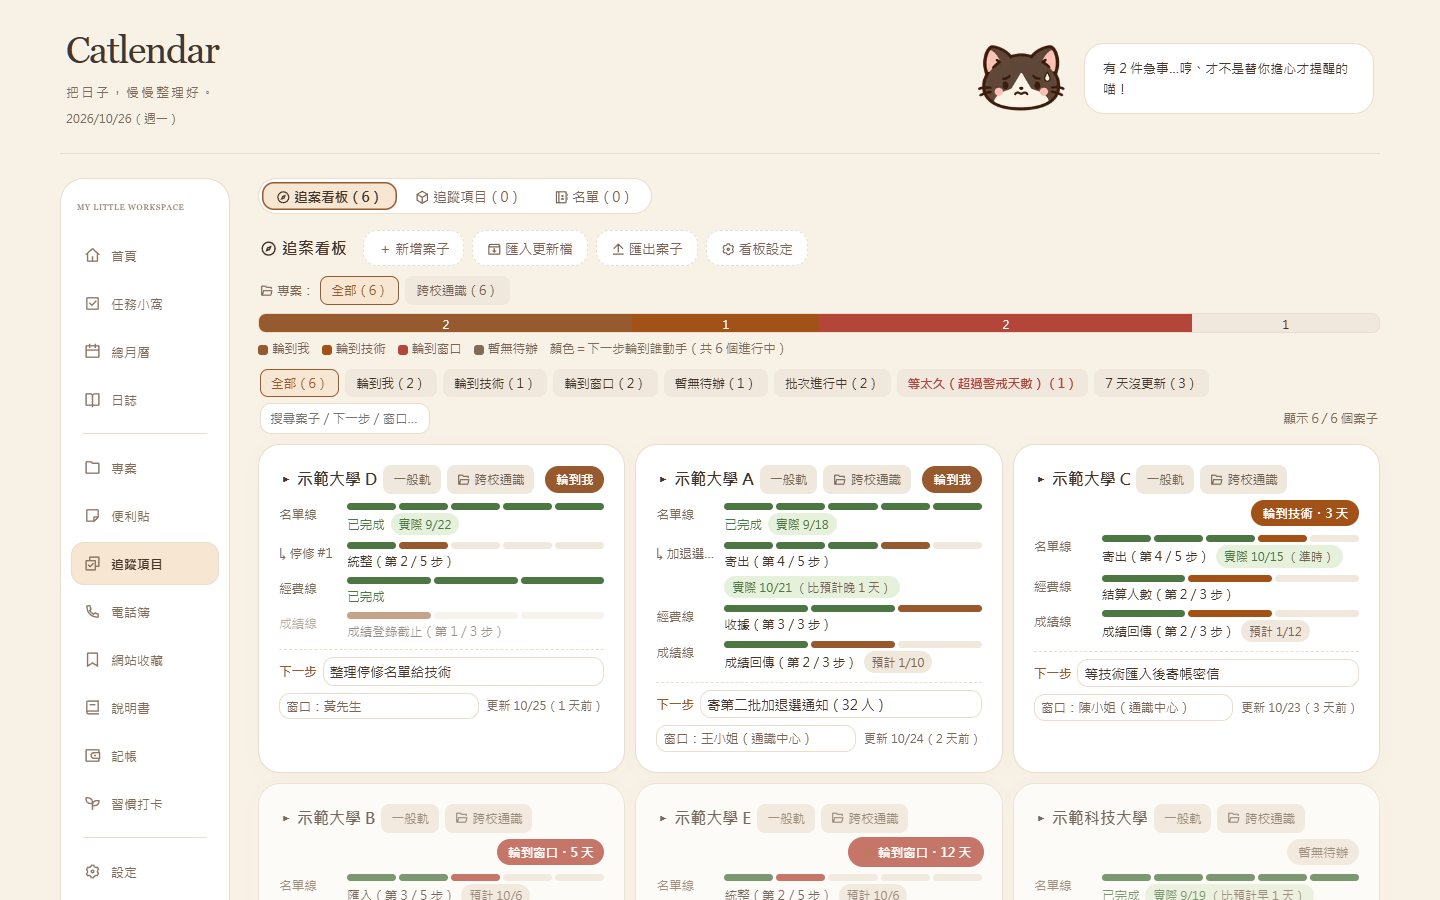
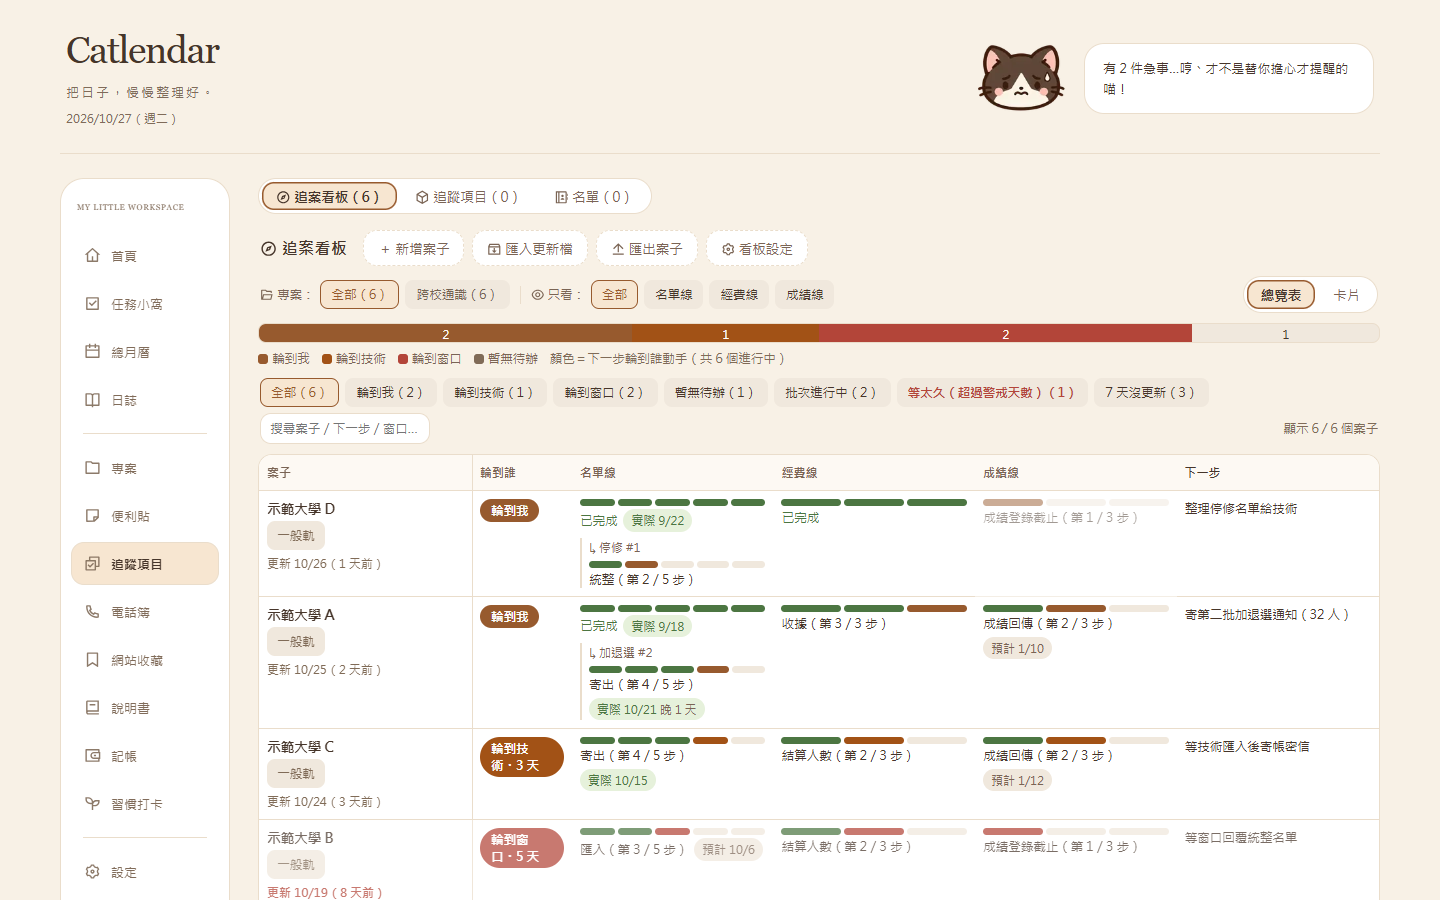
Catlendar 看板截圖更新為 v66 總覽表

diff --git a/index.html b/index.html
@@ -901,7 +901,7 @@ const PROJECTS = [
   hi:["追案看板「一校一卡、球在誰手上」，21 所學校的交辦進度一眼掌握；v65 起每張卡直接畫出每條線的進度","v65 奶油風改版：請美編與 UI 設計視角會診，把 1,258 個 emoji 換成線條圖示、按鈕層級收斂、色票提亮，再由模擬使用者跑 heuristic 複檢","經歷資料清空事故後，把備份匯出與自動快照升級為一級功能","可以交接：改版歷程、維運手冊、連「給下一個 AI 的說明書」都寫好了"],
   tech:["HTML/CSS/JS 單檔","localStorage","GAS 雲端同步","AI 結對開發"],
   link:"https://barefooty.github.io/catlendar-app/", linkTxt:"🐱 立即試用 Catlendar",
-  shots:[{s:"assets/catlendar-home.png?v=65.1",c:"首頁儀表板（v65 奶油風）：「今天先看這裡」——幾天內截止、輪到我做什麼、在等誰；模組卡用手繪大圖示（示範資料）"},{s:"assets/catlendar-board.png?v=65.1",c:"追案看板：一校一卡，每條線直接畫進度條、「輪到誰」一眼看懂；示範大學 A～E 皆為虛構"},{s:"assets/catlendar-theme.png?v=65.1",c:"設定頁：十二隻奶油風貓狗、只有頭／全身、點綴色三選一——工具可以可愛，效率不打折"},{s:"assets/catlendar-mobile.png?v=65.1",c:"手機版：同一個檔案，底部導覽與單欄卡片"}]},
+  shots:[{s:"assets/catlendar-home.png?v=65.1",c:"首頁儀表板（v65 奶油風）：「今天先看這裡」——幾天內截止、輪到我做什麼、在等誰；模組卡用手繪大圖示（示範資料）"},{s:"assets/catlendar-board.png?v=66",c:"追案看板（v66 總覽表）：一列一校、一欄一條線，進度條＋第幾步＋日期直接畫在格子裡，可只看一條線、點一列整頁打開；示範大學 A～E 皆為虛構"},{s:"assets/catlendar-theme.png?v=65.1",c:"設定頁：十二隻奶油風貓狗、只有頭／全身、點綴色三選一——工具可以可愛，效率不打折"},{s:"assets/catlendar-mobile.png?v=65.1",c:"手機版：同一個檔案，底部導覽與單欄卡片"}]},
 
  {id:"course", cat:["ai"], svg:"course",
   title:"📋 課程異動申請自動化", status:"live", statusTxt:"✅ 營運中・本季自動產出 37 份收執聯",
